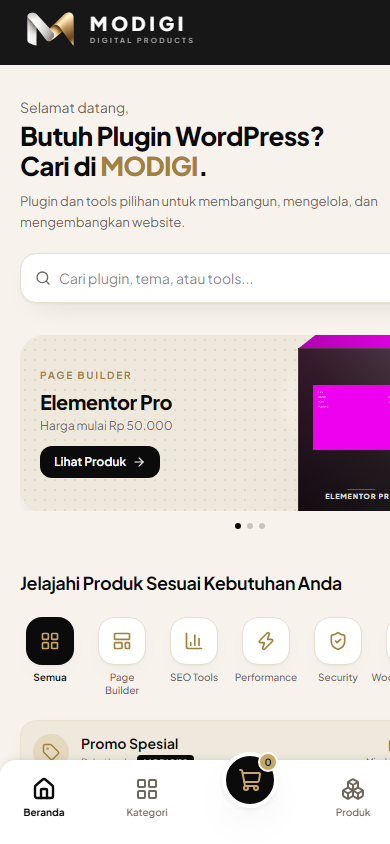
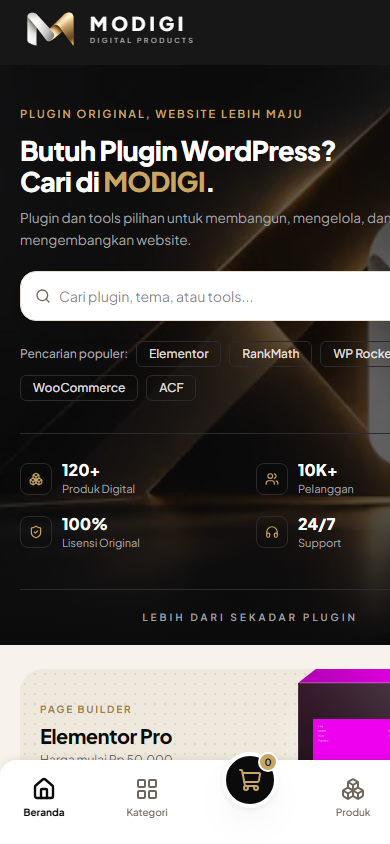
Samakan hero mobile dengan desktop
Sebelumnya hero berisi dua desain sekaligus: di mobile tampil sapaan, judul, dan
banner promo geser di latar cream, sedangkan desktop memakai panel gelap dengan
artwork. Dua desain dalam satu komponen berarti setiap perubahan harus dijaga di
dua tempat dan hasilnya terasa seperti dua situs berbeda.

Sekarang satu hero dipakai untuk semua ukuran layar (yang berubah hanya skala
tipografi dan kerapatan jarak), banner promo pindah jadi section sendiri di
bawahnya, dan pembatas gelombang di header dibuang karena header dan hero
sama-sama gelap. Preview mobile di README ikut diperbarui.

🤖 Generated with Codebuff

diff --git a/src/components/home/hero-section.tsx b/src/components/home/hero-section.tsx
@@ -2,45 +2,44 @@ import Image from "next/image";
 import Link from "next/link";
 
 import heroBackground from "@/assets/hero-background.png";
-import { PromoCarousel } from "@/components/home/promo-carousel";
 import { Container } from "@/components/ui/container";
 import { SearchForm } from "@/components/ui/search-form";
-import { heroGreeting, heroStats, popularSearches } from "@/data/site";
+import { heroStats, popularSearches } from "@/data/site";
 import { cn } from "@/lib/utils";
 
 /**
- * Hero halaman utama — dua tampilan dari satu DOM:
- * - < lg : sapaan + judul + pencarian + banner promo geser (mengikuti wireframe mobile).
- * - >= lg: hero gelap full-bleed dengan artwork (tampilan asli).
+ * Hero halaman utama — **satu tampilan untuk semua ukuran layar**: panel gelap
+ * full-bleed dengan artwork, eyebrow emas, judul, kolom pencarian, kata kunci
+ * populer, dan empat statistik. Yang berubah antar breakpoint hanya skala
+ * tipografi + kerapatan jarak, jadi mobile & desktop tidak lagi dua desain berbeda.
+ *
+ * Isi teks/warna sepenuhnya dari token di `globals.css` dan data di `src/data/site.ts`.
  */
 export function HeroSection() {
   return (
-    <section className="relative overflow-hidden bg-cream lg:bg-ink lg:text-white">
+    <section className="relative overflow-hidden bg-ink text-white">
       <HeroBackdrop />
 
       <Container className="relative">
-        {/* pt-8 memberi ruang untuk pembatas gelombang header di mobile. */}
-        <div className="max-w-2xl pb-2 pt-8 lg:py-24">
-          <p className="text-sm text-muted lg:hidden">{heroGreeting}</p>
-
-          <p className="hidden items-center gap-3 text-[11px] font-semibold uppercase leading-relaxed tracking-[0.18em] text-gold sm:tracking-[0.22em] lg:flex">
+        <div className="max-w-2xl py-10 sm:py-14 lg:py-24">
+          <p className="flex items-center gap-3 text-[11px] font-semibold uppercase leading-relaxed tracking-[0.18em] text-gold sm:tracking-[0.22em]">
             Plugin Original, Website Lebih Maju
             <span className="hidden h-px w-10 shrink-0 bg-gold/50 sm:block" aria-hidden="true" />
           </p>
 
-          <h1 className="mt-1 text-[26px] font-extrabold leading-[1.15] tracking-tight text-ink lg:mt-5 lg:text-[52px] lg:leading-[1.05] lg:text-white">
+          <h1 className="mt-3 text-[27px] font-extrabold leading-[1.15] tracking-tight text-white lg:mt-5 lg:text-[52px] lg:leading-[1.05]">
             Butuh Plugin WordPress?
             <br />
-            Cari di <span className="text-gold-deep lg:text-gold">MODIGI</span>.
+            Cari di <span className="text-gold">MODIGI</span>.
           </h1>
 
-          <p className="mt-2.5 text-[13px] leading-relaxed text-muted lg:mt-5 lg:text-[15px] lg:text-muted-dark">
+          <p className="mt-2.5 text-[13.5px] leading-relaxed text-muted-dark lg:mt-5 lg:text-[15px]">
             Plugin dan tools pilihan untuk membangun, mengelola, dan mengembangkan website.
           </p>
 
           <SearchForm id="hero-search" className="mt-5 lg:mt-8" />
 
-          <div className="mt-5 hidden flex-wrap items-center gap-2 lg:flex">
+          <div className="mt-5 flex flex-wrap items-center gap-2">
             <span className="text-xs font-medium text-muted-dark">Pencarian populer:</span>
             {popularSearches.map((keyword) => (
               <Link
@@ -53,7 +52,7 @@ export function HeroSection() {
             ))}
           </div>
 
-          <dl className="mt-10 hidden grid-cols-2 gap-x-3 gap-y-5 border-t border-line-dark pt-8 sm:grid-cols-4 sm:gap-x-0 sm:gap-y-6 lg:grid">
+          <dl className="mt-8 grid grid-cols-2 gap-x-3 gap-y-5 border-t border-line-dark pt-7 sm:grid-cols-4 sm:gap-x-0 sm:gap-y-6 lg:mt-10 lg:pt-8">
             {heroStats.map(({ value, label, icon: Icon }, index) => (
               <div
                 key={label}
@@ -76,9 +75,7 @@ export function HeroSection() {
           </dl>
         </div>
 
-        <PromoCarousel className="mt-6 pb-2 lg:hidden" />
-
-        <div className="hidden border-t border-line-dark py-5 text-center lg:block">
+        <div className="border-t border-line-dark py-5 text-center">
           <p className="text-[10px] font-semibold uppercase tracking-[0.3em] text-muted-dark">
             Lebih dari Sekadar Plugin
           </p>
@@ -89,19 +86,22 @@ export function HeroSection() {
 }
 
 /**
- * Elemen dekoratif hero: artwork full-bleed (`src/assets/hero-background.png`) + lapisan gelap
- * supaya teks di sisi kiri tetap kontras, lalu teks vertikal sebagai aksen sudut.
- * Hanya tampil di desktop — di mobile hero memakai banner promo di atas latar cream.
+ * Elemen dekoratif hero: artwork full-bleed (`src/assets/hero-background.png`) plus
+ * lapisan gelap supaya teks tetap kontras, lalu teks vertikal sebagai aksen sudut.
+ *
+ * Lapisan gelapnya dua bentuk karena kebutuhan berbeda:
+ * - mobile : tirai rata (`bg-ink/65`) — teks memakai hampir seluruh lebar layar,
+ *            jadi seluruh bidang digelapkan. Angka 65% bukan tebakan: artwork ini
+ *            memang gelap (median luminance 0,021 / puncak 0,364), dan pada 65%
+ *            kontras teks putih terukur 13:1 — jauh di atas ambang WCAG AAA.
+ * - desktop: gradien dari kiri — teks hanya di kolom kiri, artwork boleh terlihat.
  *
  * Asset di-import (bukan path mentah) supaya URL-nya ikut ber-hash: cukup timpa filenya,
  * cache browser otomatis kebuang.
  */
 function HeroBackdrop() {
   return (
-    <div
-      aria-hidden="true"
-      className="pointer-events-none absolute inset-0 hidden overflow-hidden lg:block"
-    >
+    <div aria-hidden="true" className="pointer-events-none absolute inset-0 overflow-hidden">
       <Image
         src={heroBackground}
         alt=""
@@ -112,7 +112,8 @@ function HeroBackdrop() {
         className="object-cover object-center"
       />
 
-      <div className="absolute inset-0 bg-gradient-to-r from-ink via-ink/80 to-ink/30" />
+      <div className="absolute inset-0 bg-ink/65 lg:hidden" />
+      <div className="absolute inset-0 hidden bg-gradient-to-r from-ink via-ink/80 to-ink/30 lg:block" />
       <div className="absolute inset-x-0 bottom-0 h-40 bg-gradient-to-t from-ink to-transparent" />
 
       <span className="absolute right-6 top-24 hidden text-[10px] font-semibold uppercase tracking-[0.4em] text-muted-dark [writing-mode:vertical-rl] lg:block">

diff --git a/src/app/(main)/page.tsx b/src/app/(main)/page.tsx
@@ -1,18 +1,32 @@
 import { CategoryShowcase } from "@/components/home/category-showcase";
 import { CtaBanner } from "@/components/home/cta-banner";
 import { HeroSection } from "@/components/home/hero-section";
+import { PromoCarousel } from "@/components/home/promo-carousel";
 import { PromoCodeBanner } from "@/components/home/promo-code-banner";
 import { TrendingProducts } from "@/components/home/trending-products";
+import { Container } from "@/components/ui/container";
 
 /**
  * Halaman utama.
  * Urutan section ada di sini — atur/reorder cukup dengan memindahkan baris.
- * `PromoCodeBanner` menyembunyikan dirinya sendiri di desktop (`lg:hidden`).
+ * Dua section menyembunyikan dirinya sendiri di desktop: `PromoCarousel`
+ * dan `PromoCodeBanner` (keduanya `lg:hidden`).
  */
 export default function HomePage() {
   return (
     <>
       <HeroSection />
+
+      {/*
+        Banner promo geser — sengaja di luar hero supaya hero tampil identik dengan
+        desktop; di sini tetap mobile-only (`lg:hidden`).
+      */}
+      <section className="pt-6 lg:hidden">
+        <Container>
+          <PromoCarousel />
+        </Container>
+      </section>
+
       <CategoryShowcase />
       <PromoCodeBanner />
       <TrendingProducts />

diff --git a/src/components/layout/site-header.tsx b/src/components/layout/site-header.tsx
@@ -25,8 +25,6 @@ export function SiteHeader() {
 
   return (
     <header className="sticky top-0 z-50 border-b border-transparent bg-ink/95 backdrop-blur lg:border-line-dark">
-      <HeaderWave />
-
       <Container className="flex h-16 items-center gap-4 lg:h-[72px] lg:gap-8">
         <Link href="/" aria-label={siteConfig.name} onClick={closeMenu}>
           <Logo />
@@ -150,23 +148,5 @@ export function SiteHeader() {
         </div>
       )}
     </header>
-  );
-}
-
-/**
- * Pembatas gelombang di bawah header — hanya di mobile, mengikuti wireframe.
- * Warnanya sama dengan latar halaman (cream), jadi tepi bawah header terlihat berombak
- * tanpa perlu elemen pemisah tambahan.
- */
-function HeaderWave() {
-  return (
-    <svg
-      aria-hidden="true"
-      viewBox="0 0 1440 100"
-      preserveAspectRatio="none"
-      className="pointer-events-none absolute inset-x-0 top-full h-4 w-full fill-cream lg:hidden"
-    >
-      <path d="M0,50 C320,150 420,-50 1440,50 L1440,100 L0,100 Z" />
-    </svg>
   );
 }

diff --git a/src/data/site.ts b/src/data/site.ts
@@ -33,12 +33,6 @@ export const heroStats: Stat[] = [
 export const popularSearches = ["Elementor", "RankMath", "WP Rocket", "WooCommerce", "ACF"];
 
 /**
- * Sapaan kecil di atas judul hero — hanya tampil di layar kecil (mobile shell).
- * Di desktop baris ini digantikan oleh eyebrow "Plugin Original, Website Lebih Maju".
- */
-export const heroGreeting = "Selamat datang,";
-
-/**
  * Kartu kode promo yang tampil di mobile (di atas daftar produk).
  * Isinya placeholder — ganti nilainya di sini, kartunya ikut otomatis.
  */

diff --git a/src/components/home/promo-carousel.tsx b/src/components/home/promo-carousel.tsx
@@ -14,7 +14,8 @@ import { cn } from "@/lib/utils";
 const slides = trendingProducts.slice(0, 3);
 
 /**
- * Banner promo geser (swipe) untuk hero versi mobile — hanya tampil di < lg.
+ * Banner promo geser (swipe) — mobile-only (`lg:hidden`), diletakkan di bawah hero
+ * karena hero sendiri sekarang tampil identik dengan desktop.
  *
  * Meniru wireframe mobile: kartu cream dengan pola titik emas, teks di sisi kiri,
  * mockup box produk menempel di kanan, plus indikator titik di bawah kartu.

diff --git a/README.md b/README.md
@@ -42,8 +42,8 @@ Dibangun dengan **Next.js 16 (App Router)**, **TypeScript**, dan **Tailwind CSS 
 | :---: | :---: | :---: |
 | ![Beranda MODIGI](docs/preview-home.png) | ![Katalog produk](docs/preview-catalog.png) | ![Detail produk](docs/preview-product.png) |
 
-**Mobile** — struktur mengikuti wireframe aplikasi (header bergelombang, banner promo geser,
-grid 2 kolom, tab bar bawah + tombol keranjang), warna tetap identitas MODIGI
+**Mobile** — hero tampil identik dengan desktop (panel gelap + artwork), lalu banner promo geser,
+grid 2 kolom, dan bottom tab bar + tombol keranjang ala aplikasi
 
 <p align="center">
   <img src="docs/preview-home-mobile.png" width="230" alt="Beranda versi mobile" />
@@ -87,8 +87,11 @@ grid 2 kolom, tab bar bawah + tombol keranjang), warna tetap identitas MODIGI
 
 **Fundamental**
 
-- **Mobile shell ala aplikasi** di layar `< 1024px`: header dengan pembatas gelombang,
-  banner promo geser, baris kategori, grid 2 kolom, bottom tab bar + tombol keranjang
+- **Mobile shell ala aplikasi** di layar `< 1024px`: menu panel, banner promo geser,
+  baris kategori, grid 2 kolom, bottom tab bar + tombol keranjang
+- **Satu hero untuk semua layar**: isi hero (eyebrow, judul, pencarian, chip populer,
+  4 statistik) tidak berbeda antara mobile dan desktop — yang berubah hanya
+  skala tipografi dan kerapatan jarak
 - **SEO**: metadata per produk, halaman detail **ter-prerender saat build**,
   breadcrumb, struktur heading berurutan
 - **Aksesibilitas**: indikator fokus di semua elemen interaktif, ikon dekoratif
@@ -289,8 +292,12 @@ Beberapa keputusan yang sengaja diambil, dan alasannya:
 7. **UI diverifikasi dengan pengukuran**, bukan perkiraan: Chrome headless dipakai
    untuk memeriksa overflow horizontal, ukuran target sentuh, ukuran artwork, dan
    panjang baris teks di banyak lebar layar selama pengembangan.
-8. **Struktur mobile mengikuti wireframe** (header bergelombang, banner geser,
-   bottom tab bar) untuk layar `< 1024px`, dengan warna tetap identitas MODIGI.
+8. **Hero tidak dipecah per breakpoint.** Dulu mobile memakai hero sendiri (sapaan +
+   banner geser di latar cream). Sekarang satu hero dipakai semua ukuran layar, dan
+   banner promo pindah jadi section tersendiri di bawahnya — supaya tidak ada dua
+   desain hero yang harus dijaga bersamaan.
+9. **Struktur mobile lain tetap ala aplikasi** (banner geser, bottom tab bar, grid
+   2 kolom) untuk layar `< 1024px`, dengan warna tetap identitas MODIGI.
 
 ---
 
